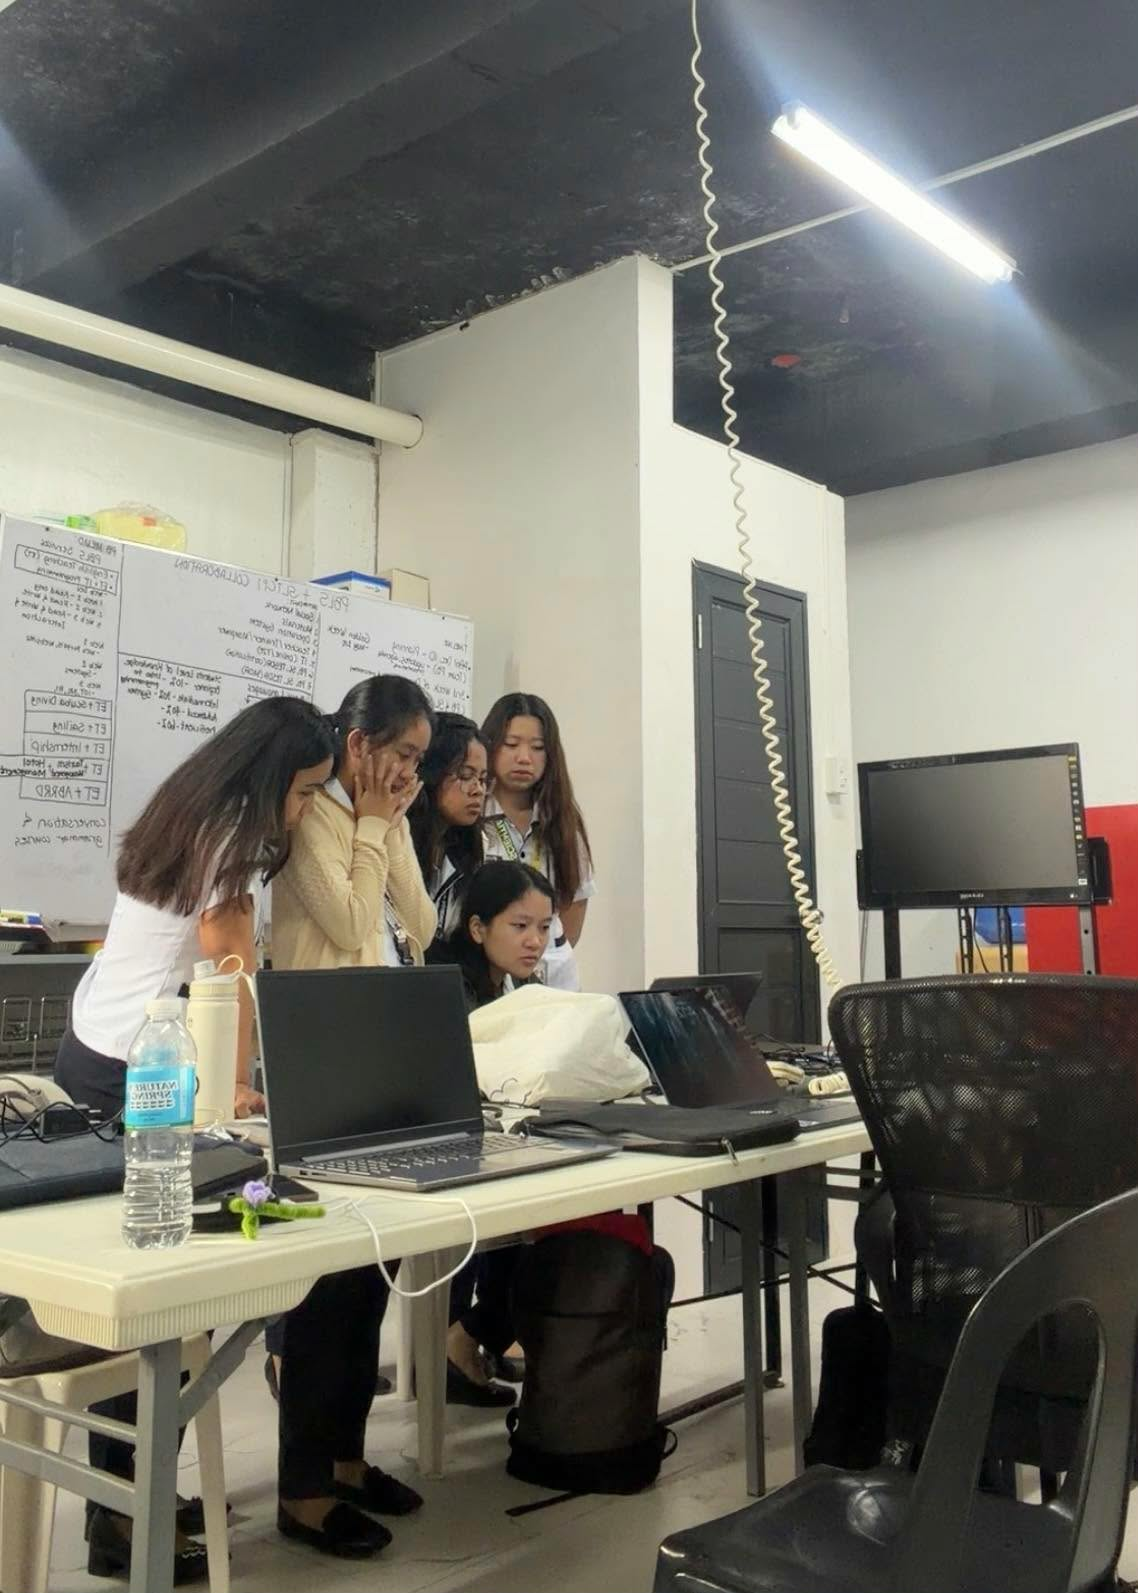
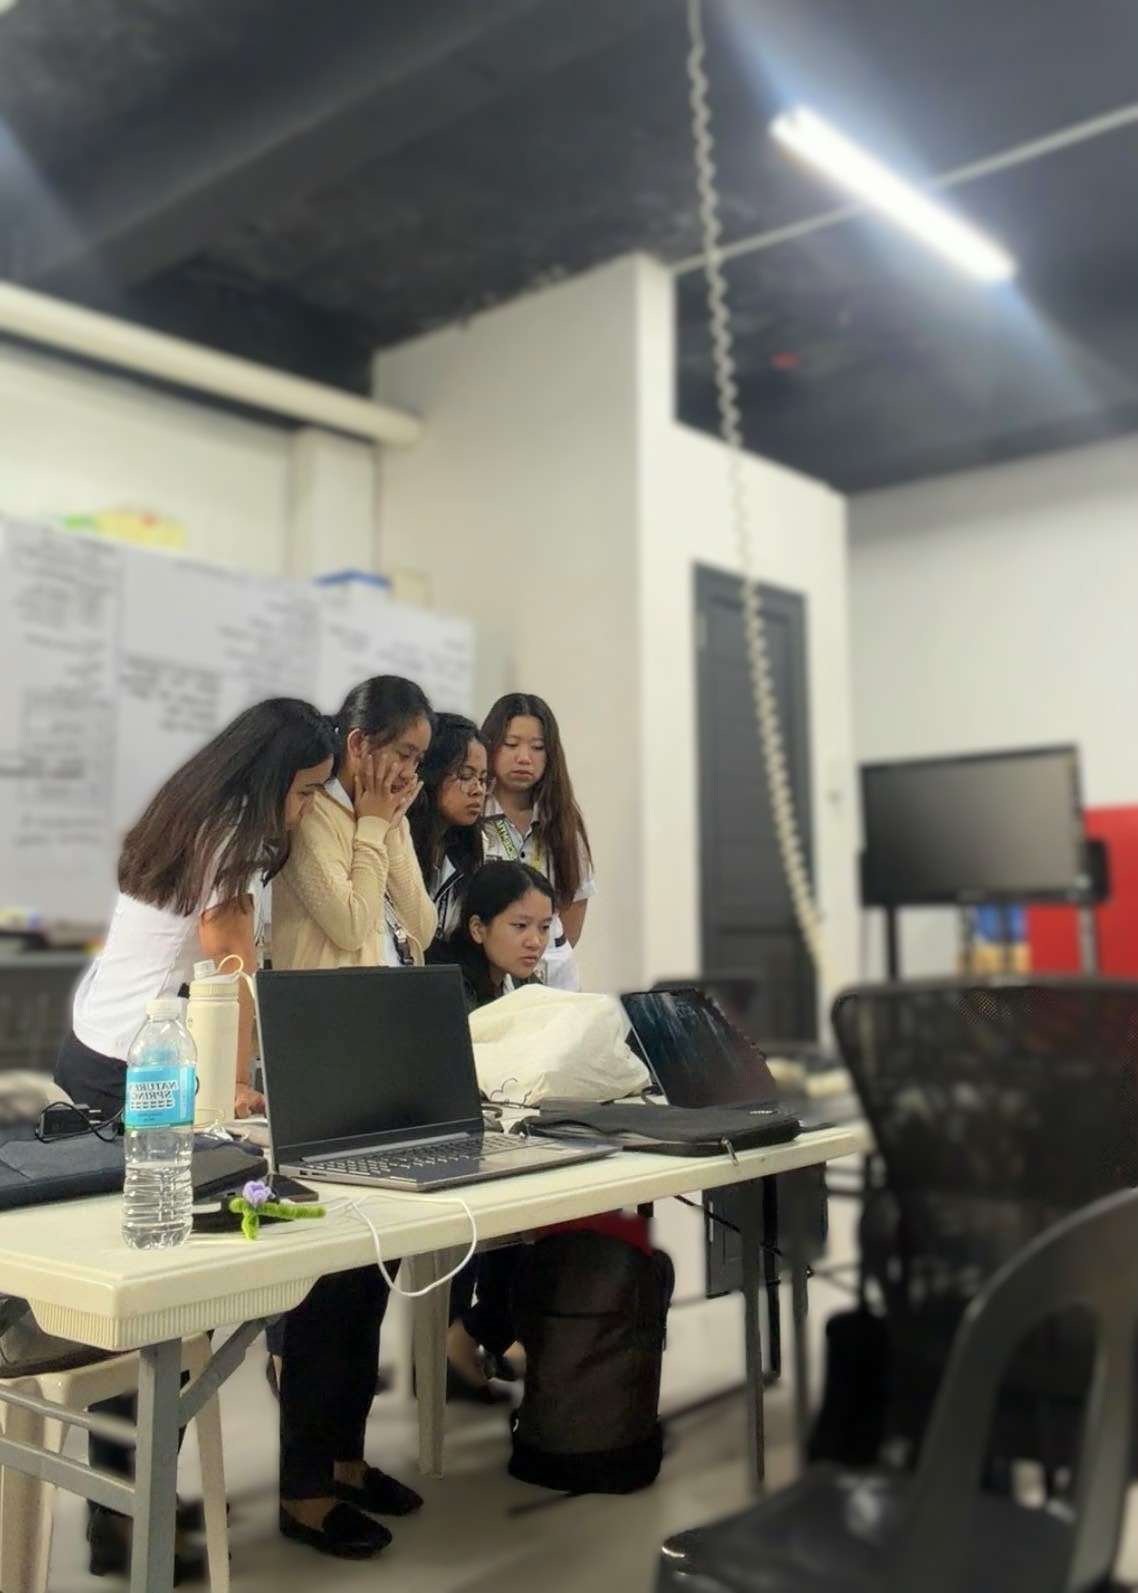
blur

diff --git a/week1.html b/week1.html
@@ -62,11 +62,14 @@
                         <div class="week-detail-gallery">
                             <div class="image-gallery">
                                 <div class="gallery-item"><img src="assets/week1-1.jpg" alt="Documentation Image 1"></div>
-                                <div class="gallery-item"><img src="assets/week1-2.jpg" alt="Documentation Image 2"></div>
+                                <div class="gallery-item"><img src="assets/week1-2.png" alt="Documentation Image 2"></div>
                                 <div class="gallery-item"><img src="assets/week1-3.jpg" alt="Documentation Image 3"></div>
                                 <div class="gallery-item"><img src="assets/week1-4.jpg" alt="Documentation Image 4"></div>
                                 <div class="gallery-item"><img src="assets/week1-5.jpg" alt="Documentation Image 5"></div>
                                 <div class="gallery-item"><img src="assets/week1-6.jpg" alt="Documentation Image 6"></div>
+                                <div class="gallery-item"><img src="assets/week1-7.png" alt="Documentation Image 6"></div>
+                                <div class="gallery-item"><img src="assets/week1-8.jpg" alt="Documentation Image 6"></div>
+                                    <div class="gallery-item"><img src="assets/week1-9.png" alt="Documentation Image 6"></div>
                             </div>
                         </div>
                     </div>

diff --git a/week4.html b/week4.html
@@ -55,7 +55,7 @@
                             <div class="image-gallery">
                                 <div class="gallery-item"><img src="https://placehold.co/400x300/1e293b/3b82f6?text=Image+1"
                                         alt="Documentation Image 1"></div>
-                                <div class="gallery-item"><img src="https://placehold.co/400x300/1e293b/3b82f6?text=Image+2"
+                                <div class="gallery-item"><img src="assets/week4-2.png"
                                         alt="Documentation Image 2"></div>
                                 <div class="gallery-item"><img src="assets/week4-3.jpg"></div>
                                 <div class="gallery-item"><img src="https://placehold.co/400x300/1e293b/3b82f6?text=Image+4"

diff --git a/week5.html b/week5.html
@@ -60,7 +60,7 @@
                                         alt="Documentation Image 2"></div>
                                 <div class="gallery-item"><img src="assets/week5-3.jpg"
                                         alt="Documentation Image 3"></div>
-                                <div class="gallery-item"><img src="assets/week5-4.png"
+                                <div class="gallery-item"><img src="assets/week5-4.jpg"
                                         alt="Documentation Image 4"></div>
                                 <div class="gallery-item"><img src="assets/week5-5.png"
                                         alt="Documentation Image 5"></div>
